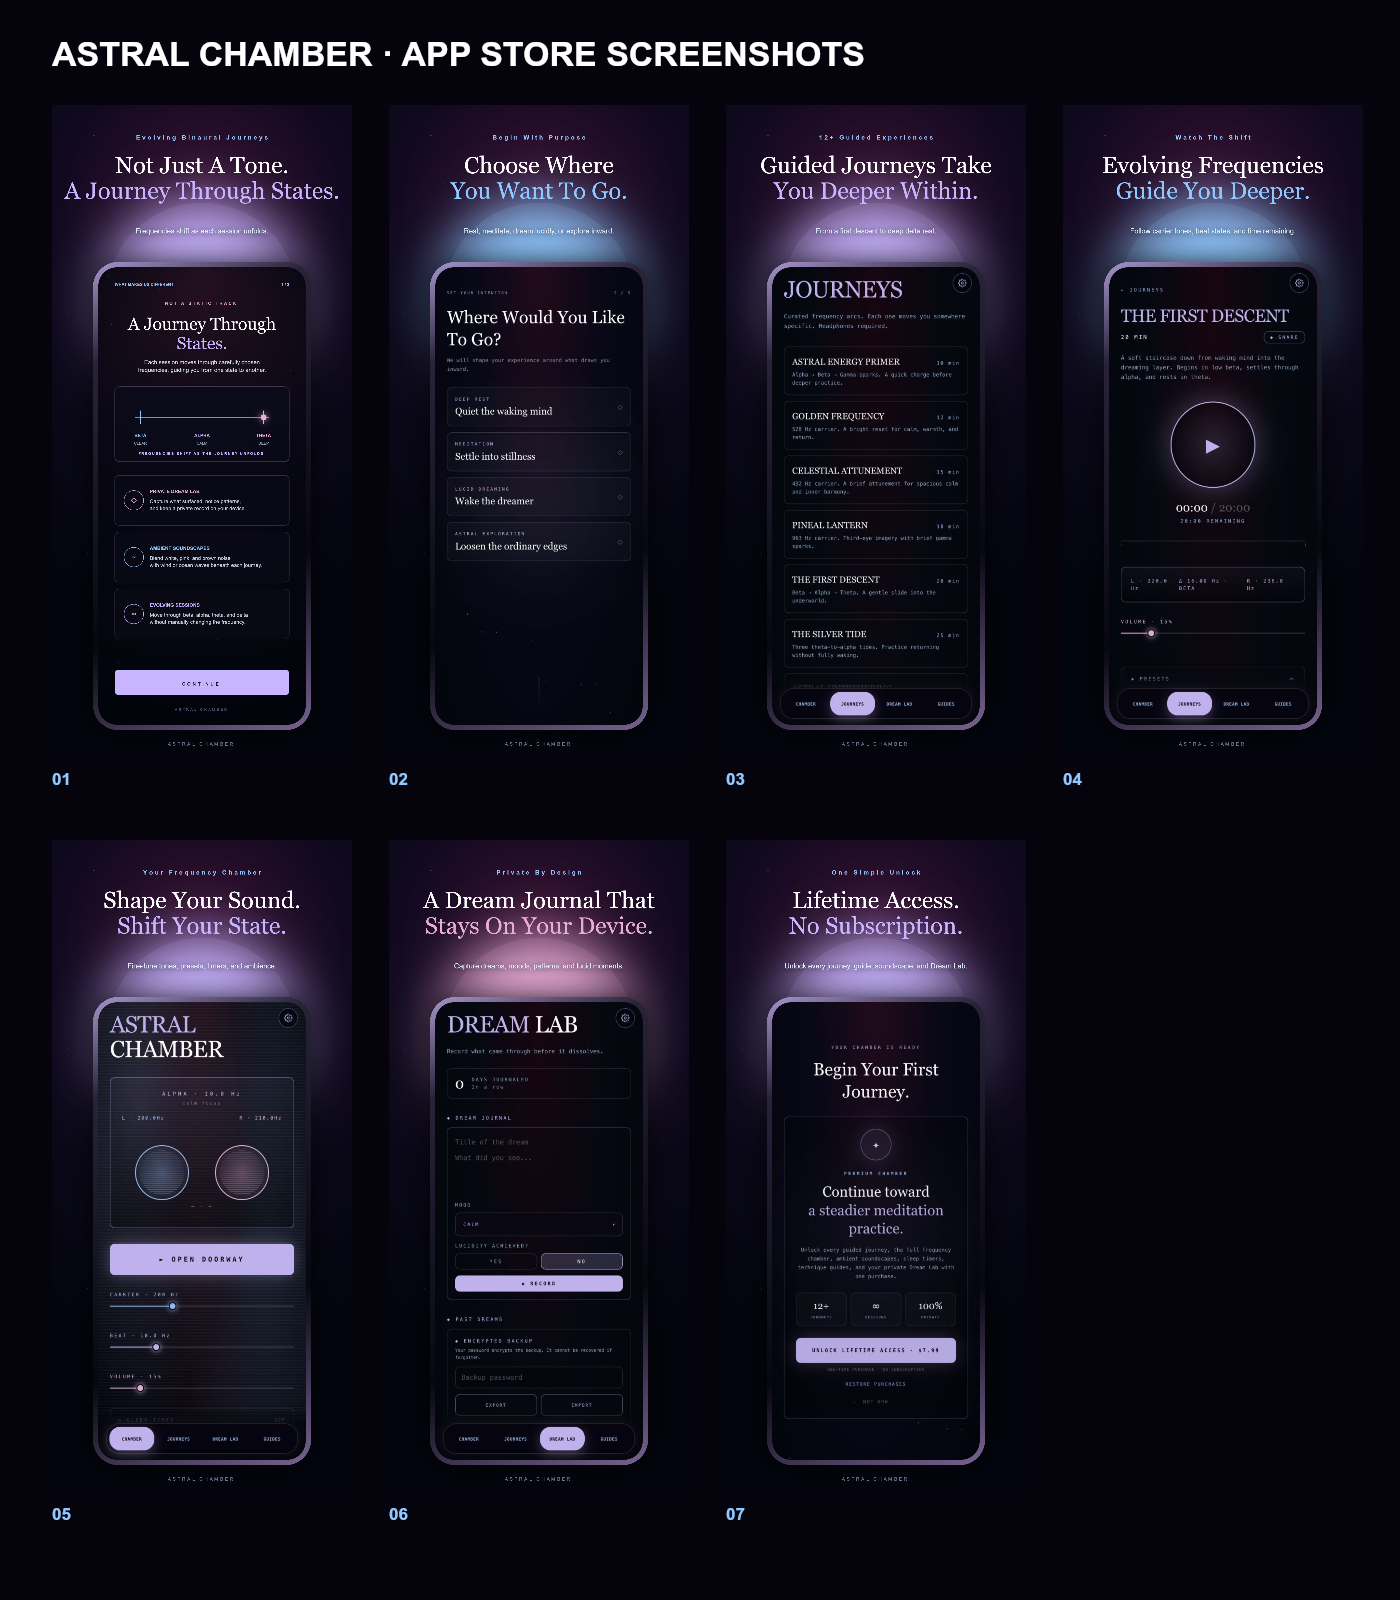
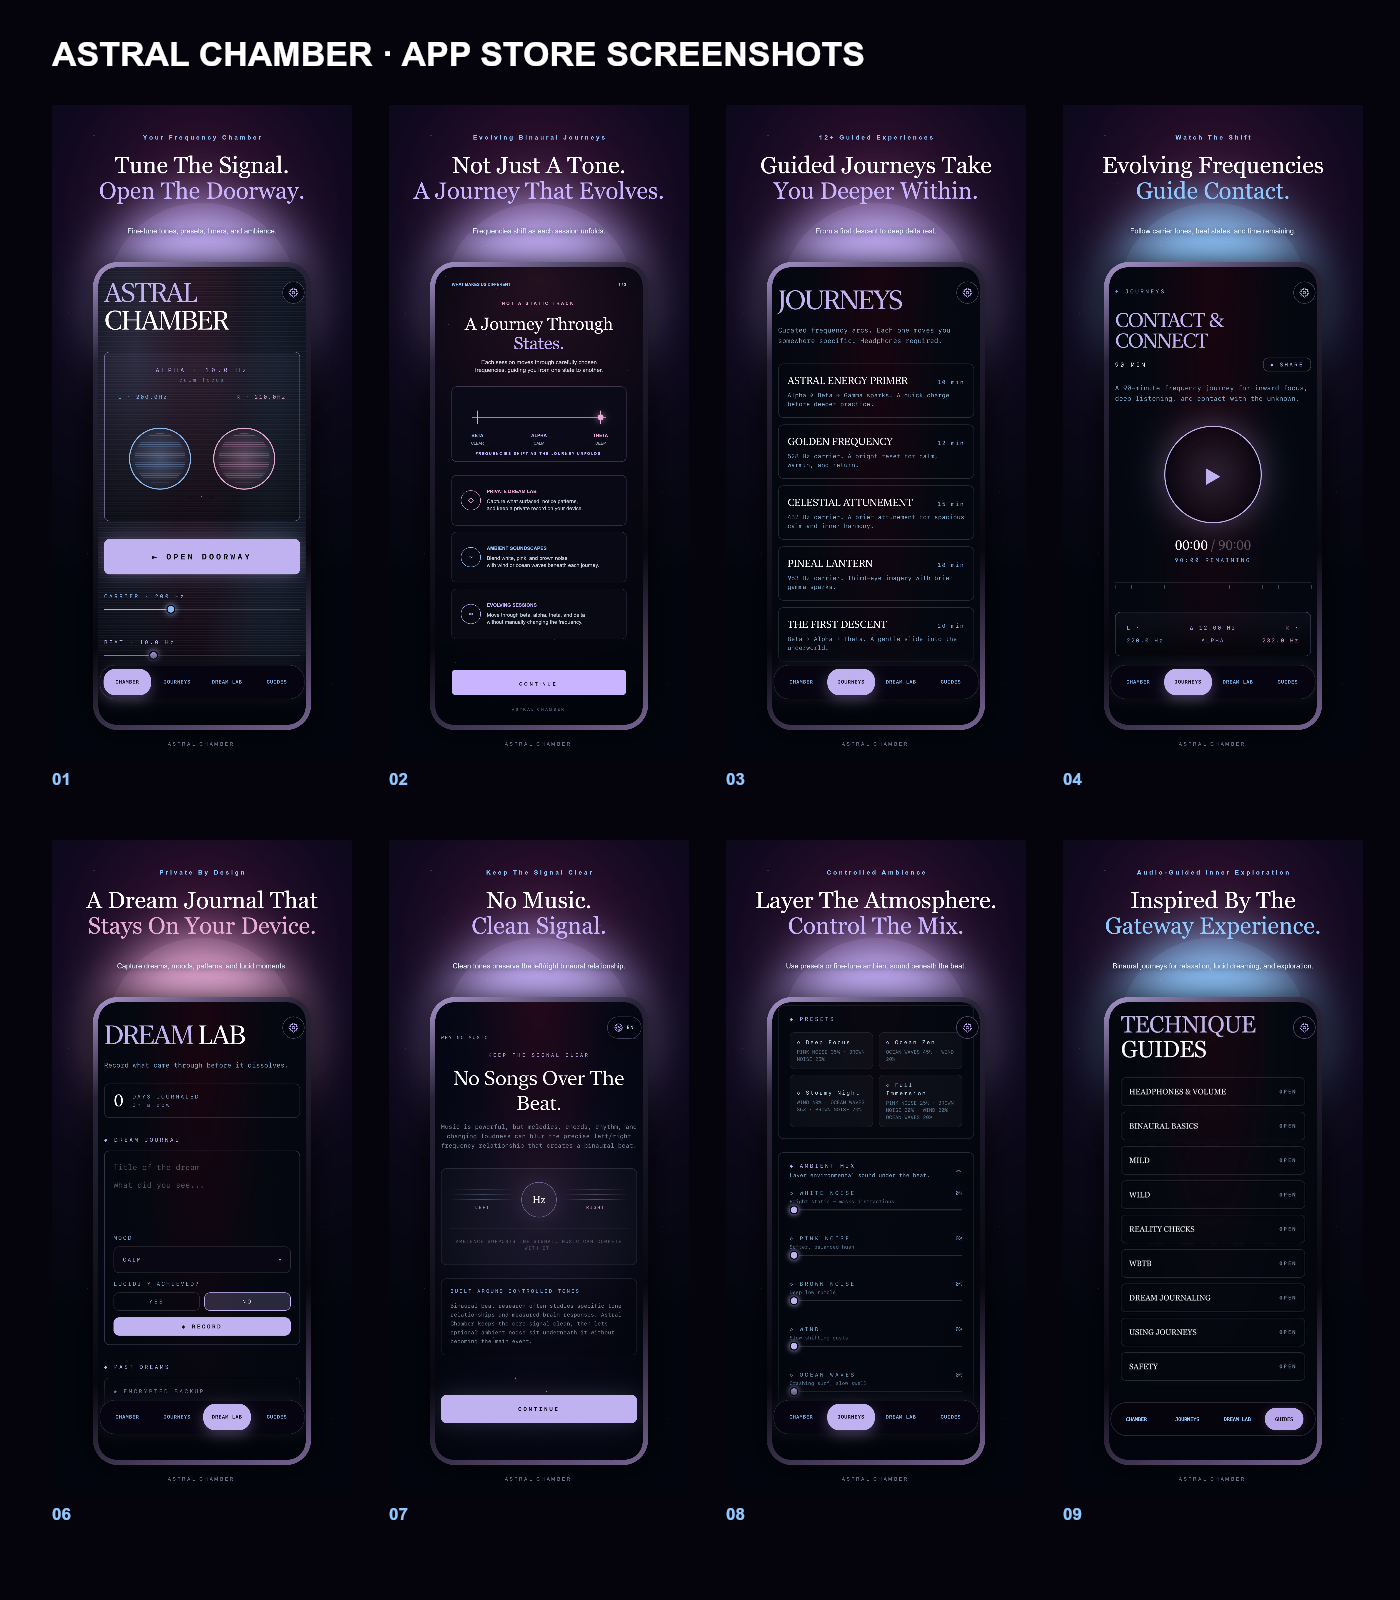
photos and ASO stuff

diff --git a/app-store-assets/app-store-aso-copy.md b/app-store-assets/app-store-aso-copy.md
@@ -1,0 +1,117 @@
+# Astral Chamber App Store ASO Copy
+
+## Subtitle Options
+
+Apple subtitle limit: 30 characters.
+
+1. OBE Binaural Journeys
+2. Astral Projection Gateway
+3. UAP & Astral Soundscapes
+4. Gateway Binaural Journeys
+5. Psionic Binaural Journeys
+
+Recommended subtitle:
+
+OBE Binaural Journeys
+
+## App Store Description
+
+Astral Chamber is a binaural journey app built for consciousness explorers.
+
+If you are drawn to astral projection, out-of-body experiences, UAP/UFO contact, remote viewing, psionics, paranormal phenomena, Gateway-style meditation, Hemi-Sync-inspired exploration, or the deeper edges of human awareness, Astral Chamber was made for you.
+
+This is not a generic sleep sounds app.
+
+Astral Chamber is designed around immersive binaural beats, frequency-based audio, and guided Journeys created for altered states, inner exploration, and expanded consciousness. Each Journey is built with a specific intention: to help you enter focused, meditative, hypnagogic, or deeply receptive states without distracting music, vocals, or overproduced ambience getting in the way.
+
+## Why No Music?
+
+Most meditation and binaural apps bury the actual binaural beat under music, pads, melodies, and layered sound effects. That can sound pretty, but it can also interfere with the binaural experience.
+
+Astral Chamber keeps the experience clean and intentional.
+
+Binaural beats work by sending slightly different frequencies to each ear. Your brain perceives the difference between them as a rhythmic pulse, which may help guide your mind toward states associated with relaxation, meditation, focus, theta, delta, alpha, and other brainwave ranges.
+
+When music is layered too heavily over binaural tones, it can mask the effect, pull your attention outward, or disrupt the subtle frequency relationship between the left and right ear.
+
+Astral Chamber is built for people who want to go inward.
+
+## What Makes Astral Chamber Different?
+
+Astral Chamber is not organized around generic categories like sleep, focus, or relax. Instead, it offers unique consciousness Journeys you will not find in ordinary binaural beats apps.
+
+Explore soundscapes and sessions for:
+
+- Astral projection practice
+- Out-of-body experience preparation
+- Gateway-style consciousness exploration
+- Deep theta meditation
+- Remote viewing mindset training
+- Psionic focus and energetic intention
+- UAP/UFO contact meditation
+- Paranormal investigation states
+- Hypnagogic awareness
+- Lucid dreaming preparation
+- Third eye and intuition work
+- Energy body awareness
+- Stillness, trance, and inner vision
+
+Every Journey is crafted for people who already feel the pull toward the unknown.
+
+## For Fans of the Gateway Experience
+
+If you have explored the Monroe Institute, Gateway Experience tapes, Hemi-Sync, remote viewing, consciousness research, or the strange intersection of science, spirituality, and the paranormal, Astral Chamber gives you a focused place to continue that work.
+
+The app is not affiliated with those systems, but it is created for the same kind of seeker: someone curious about the limits of perception, the nature of reality, and what consciousness may be capable of under the right conditions.
+
+## UAP, UFO & Contact Meditation
+
+Astral Chamber includes Journeys designed for UAP and UFO contact meditation, CE5-style intention, deep listening, and expanded awareness.
+
+These sessions are not presented as guarantees. They are tools for entering a calm, receptive, focused state where intention, imagination, intuition, and perception can meet.
+
+For some users, that means meditation.
+
+For others, it means contact work, skywatching preparation, dream exploration, or simply entering the mystery with more clarity.
+
+## Built for Serious Inner Exploration
+
+Astral Chamber is for people who want fewer distractions and more depth.
+
+Use headphones for the full binaural effect. Choose a Journey. Set your intention. Let the tones guide your attention inward.
+
+Whether your practice is astral travel, lucid dreaming, energy work, meditation, remote viewing, psionics, or paranormal exploration, Astral Chamber gives you a dedicated sonic space for the work.
+
+## Features
+
+- Binaural beats for altered-state meditation
+- Unique Journeys for astral projection, UAP contact, remote viewing, psionics, and paranormal practice
+- Clean frequency-first audio without distracting music
+- Theta, alpha, delta, and deep meditation-focused soundscapes
+- Sessions designed for headphones
+- Minimal interface for uninterrupted inner work
+- Built for consciousness explorers, not casual background listening
+
+## Enter the Chamber
+
+Astral Chamber is a doorway for the curious, the sensitive, the seekers, and the explorers of the unseen.
+
+If you are fascinated by astral projection, the Gateway Experience, UAP contact, remote viewing, UFO phenomena, psionics, lucid dreams, consciousness research, or the paranormal, this is your space.
+
+Put on headphones.
+
+Choose your Journey.
+
+Enter the Astral Chamber.
+
+## Keyword Field Draft
+
+Apple keyword field limit: 100 characters.
+
+astral,projection,obe,ufo,uap,psionics,remote,viewing,binaural,theta,gateway,paranormal
+
+## Promotional Text
+
+Apple promotional text limit: 170 characters.
+
+Explore binaural Journeys for astral projection, UAP contact, remote viewing, psionics, and paranormal consciousness work.
